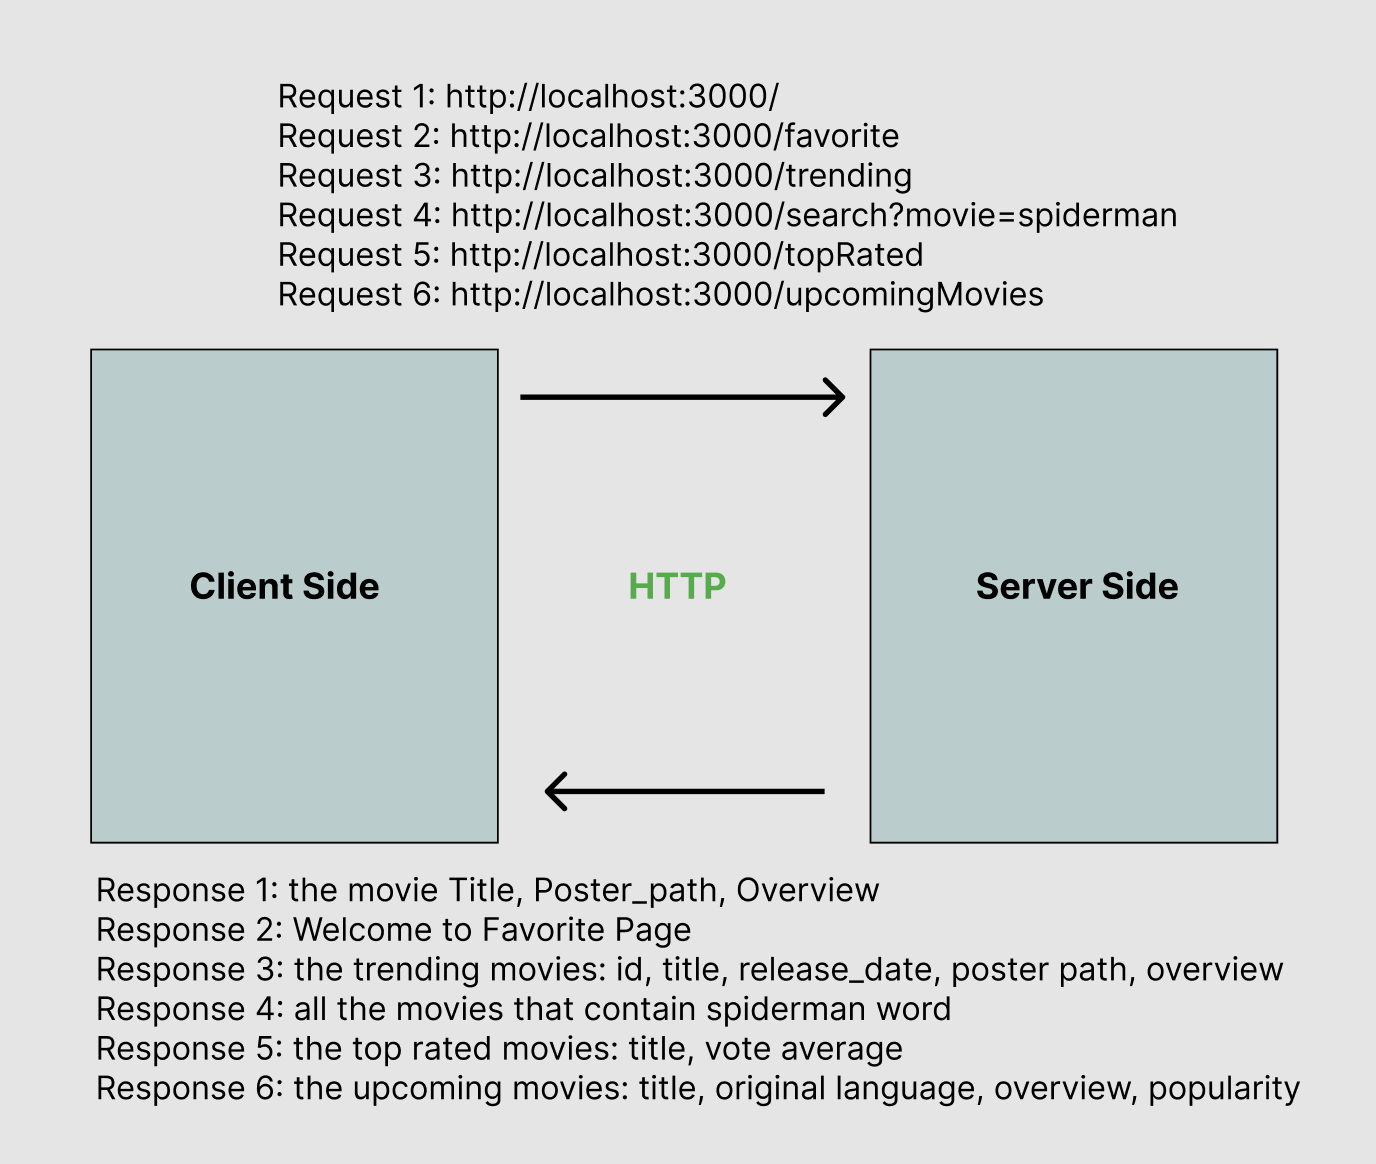
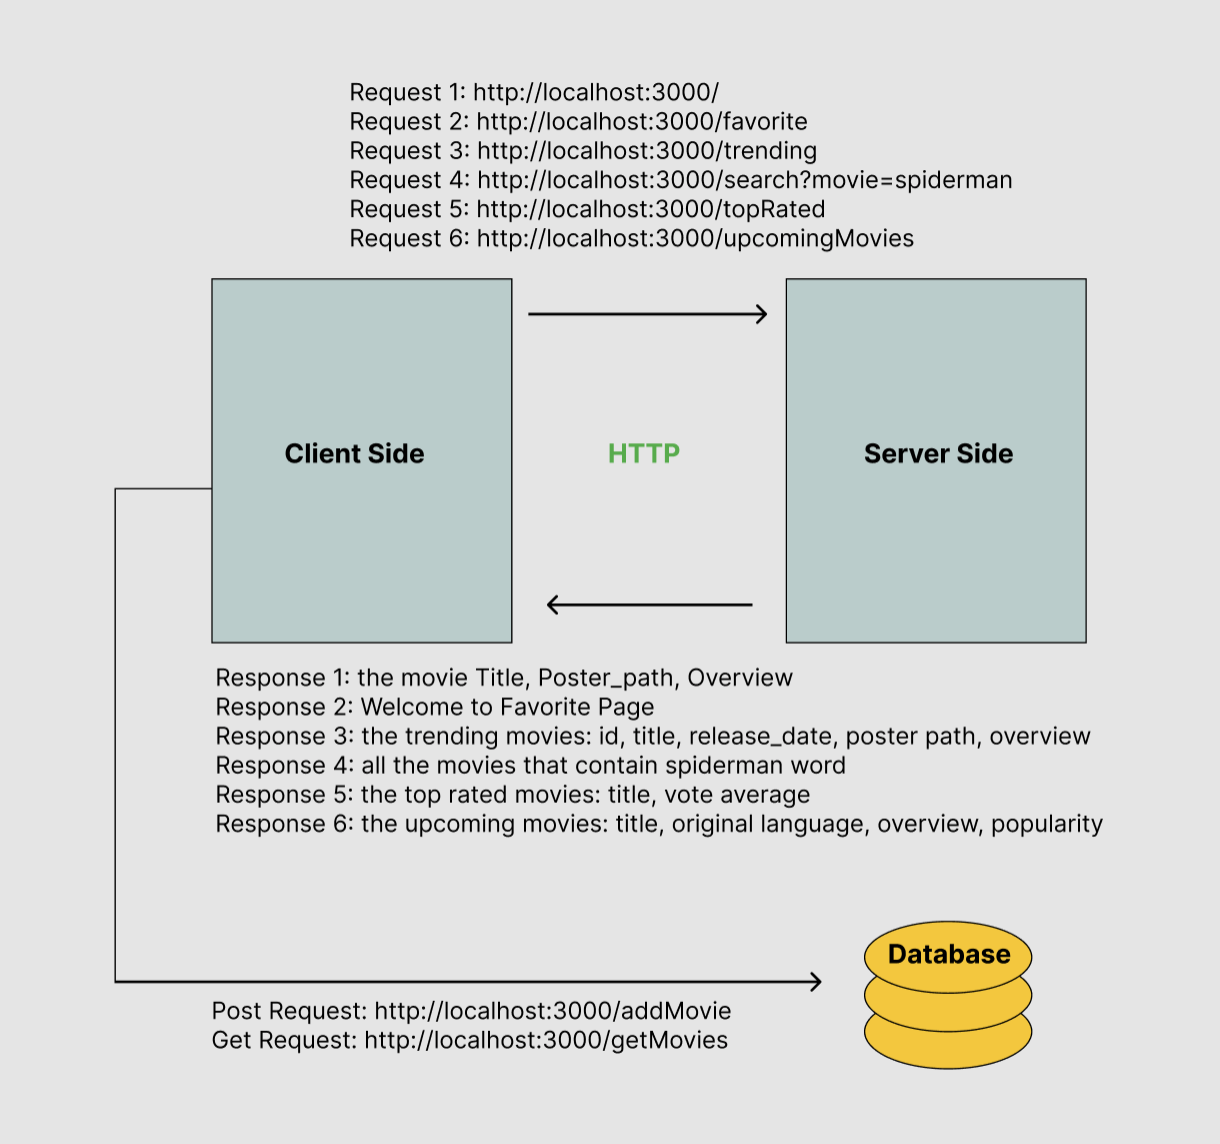
Added sql file, post and get handlers for the DB

Changed region(s): [[0.0623, 0.0612, 0.9656, 0.9484], [0.7164, 0.3671, 0.841, 0.4283]]

diff --git a/server.js b/server.js
@@ -16,13 +16,7 @@ const axios = require('axios').default;
 //API key definition
 require('dotenv').config()
 let apiKey = process.env.API_KEY
-
-
-//http://localhost:port/
-//3. Check if the server is listening to the defined port
-app.listen(port, () => {
-  console.log(`Example app listening on port ${port}`)
-})
+//apiKey = 34b8cbc4250b99e802ce858d4cb64a12
 
 // 1 Movie Response
 // Require the data file
@@ -161,9 +155,56 @@ function upcomingMoviesHandler(req,res){
   })
 }
 
+//------------------------------------- The SQL Part -------------------------------------
+//For Body Parser using
+const bodyParser = require('body-parser');
+app.use(bodyParser.urlencoded({ extended: false }));
+app.use(bodyParser.json());
+
+//For using the pg tool
+let url = "postgres://apple:1996@localhost:5432/movies";
+const { Client } = require('pg');
+const client = new Client(url);
+
+//Routs
+app.post('/addMovie', postHandler)
+app.get('/getMovies',getHandler)
+
+//Functions
+function postHandler(req,res){
+  
+  let sql = `INSERT INTO addedmovies(title,year,personalComments) VALUES($1, $2, $3) RETURNING *;`;
+  let {title,year,personalComments} = req.body; //destructuring
+  let values = [title,year,personalComments]; 
+  
+  client.query(sql,values).then(result =>{
+      console.log(result)
+      return res.status(201).json(result.rows)
+  }).catch((error)=>{
+      console.log(error)
+  })
+  }
+
+  function getHandler(req, res) {
+    let sql = `SELECT * FROM addedmovies ;`;
+    client.query(sql).then((result)=>{
+        console.log(result);
+        res.json(result.rows);
+    }).catch((error) => {
+        console.log(error)
+    })
+ }
 
 
-// 3. handling the 404  and 500 errors
+//http://localhost:port/
+// Check if the server is listening to the defined port
+client.connect().then(() => {
+  app.listen(port, () => {
+      console.log(`Server is running on port ${port}`);
+  })
+})
+
+// handling the 404  and 500 errors
 app.get('*', errorHandler)
 function errorHandler(req, res){
   if(res.status(404)){

diff --git a/README.md b/README.md
@@ -1,4 +1,4 @@
-# Movies-Library - v2.0.0
+# Movies-Library - v3.0.0
 
 **Author Name**: Lama Radwan
 
@@ -24,6 +24,8 @@
 5. A search api for movies
 6. A handler for top rated movies
 7. A handler for the upcoming movies
+8. PSQL Database handler to add a movie
+9. PSQL Database handler to get the added movies
 
 
 * What observations or questions do you have about what you’ve learned so far?
@@ -32,4 +34,4 @@ The teaching team is doing a great work
 
 * How long did it take you to complete this assignment? And, before you started, how long did you think it would take you to complete this assignment?
 
-I thought it will take 3 hours and it took me 2 hours
+I thought it will take 3 hours and it took me 4 hours
